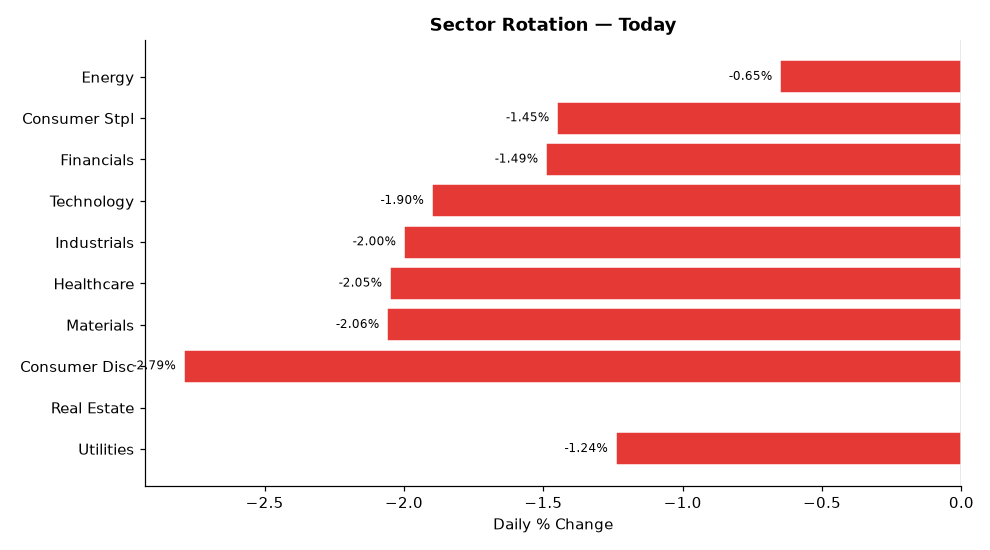
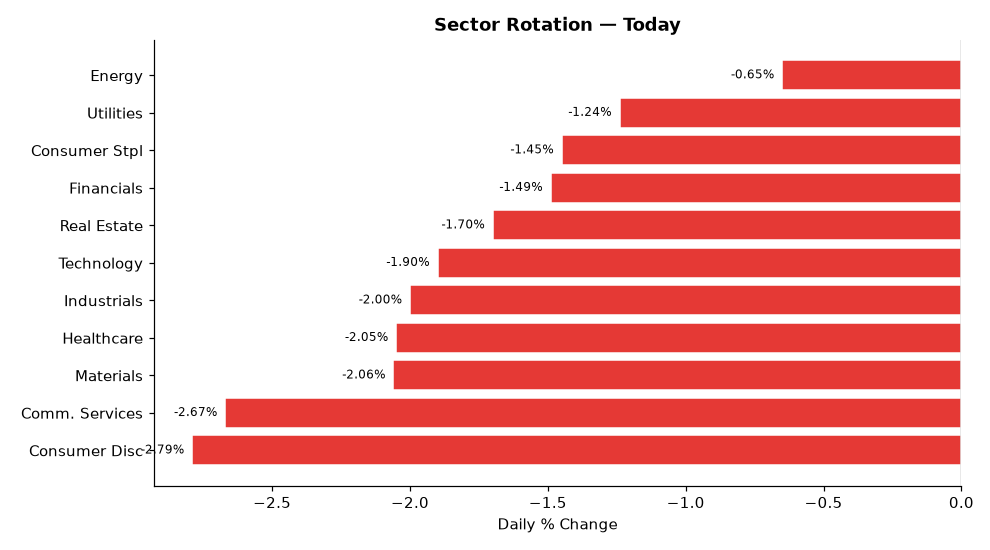
deploy: b7fadf5b06deb90e7ebb92f278722414bdd9750d

diff --git a/index.html b/index.html
@@ -4,7 +4,7 @@
   <meta charset="UTF-8">
   <meta name="viewport" content="width=device-width,initial-scale=1">
   <meta http-equiv="Cache-Control" content="no-cache,no-store,must-revalidate">
-  <title>Stock Breakout Screener — 2026-11-20 02:47</title>
+  <title>Stock Breakout Screener — 2026-11-20 06:36</title>
   <style>
     *{box-sizing:border-box;margin:0;padding:0}
     body{font-family:'Segoe UI',Arial,sans-serif;background:#f0f2f5;
@@ -34,7 +34,7 @@
 
 <div class="hdr">
   <h1>📈 Stock Breakout Screener</h1>
-  <p>Updated: 2026-11-20 02:47 UTC &nbsp;·&nbsp; Phase: Overnight &nbsp;·&nbsp;
+  <p>Updated: 2026-11-20 06:36 UTC &nbsp;·&nbsp; Phase: Pre-Market (before 9:30 AM ET) &nbsp;·&nbsp;
      129 stocks screened &nbsp;·&nbsp; Top 5 by conviction score</p>
 </div>
 
@@ -60,24 +60,7 @@
           <div style="display:flex;align-items:center;gap:10px;
                       flex-wrap:wrap;margin-bottom:10px">
             <span style="font-size:22px">🟡</span>
-            <span style="font-size:19px;font-weight:700">1. KO</span>
-            <span style="font-size:12px;color:#666">Consumer Stpl</span>
-            <span style="margin-left:auto;background:#1a237e;color:#fff;
-                         padding:3px 12px;border-radius:12px;
-                         font-size:13px;font-weight:600">
-              10/17
-            </span>
-          </div>
-          <ul style="margin:0;padding-left:18px;font-size:13px;
-                     color:#333;line-height:1.8"><li style="margin:5px 0"><span style="background:#fffde7;color:#f57f17;padding:2px 7px;border-radius:4px;font-size:11px;">⚠</span> Volume: <b>1.3× average</b> — Above-average activity</li><li style="margin:5px 0"><span style="background:#ffebee;color:#b71c1c;padding:2px 7px;border-radius:4px;font-size:11px;">❌</span> Candle: close <b>$96.09</b> vs open <b>$96.21</b> (-0.1%) — regular market close</li><li style="margin:5px 0"><span style="background:#e8f5e9;color:#2e7d32;padding:2px 7px;border-radius:4px;font-size:11px;">✅</span> 200-Day MA: price <b>$96.09</b> vs MA <b>$86.79</b> — <b>✅ Above</b> long-term trend</li><li style="margin:5px 0"><span style="background:#e8f5e9;color:#2e7d32;padding:2px 7px;border-radius:4px;font-size:11px;">✅</span> Inst. ownership: <b>68.3%</b> · MFI: <b>66.0</b> · Market cap: <b>$413.4B</b></li></ul>
-        </div>
-        <div style="background:#fff;border:1px solid #ddd;border-radius:10px;
-                    padding:16px 20px;margin-bottom:12px;
-                    box-shadow:0 2px 6px rgba(0,0,0,.07)">
-          <div style="display:flex;align-items:center;gap:10px;
-                      flex-wrap:wrap;margin-bottom:10px">
-            <span style="font-size:22px">🟡</span>
-            <span style="font-size:19px;font-weight:700">2. EL</span>
+            <span style="font-size:19px;font-weight:700">1. EL</span>
             <span style="font-size:12px;color:#666">Consumer Stpl</span>
             <span style="margin-left:auto;background:#1a237e;color:#fff;
                          padding:3px 12px;border-radius:12px;
@@ -94,7 +77,7 @@
           <div style="display:flex;align-items:center;gap:10px;
                       flex-wrap:wrap;margin-bottom:10px">
             <span style="font-size:22px">🟡</span>
-            <span style="font-size:19px;font-weight:700">3. PG</span>
+            <span style="font-size:19px;font-weight:700">2. KO</span>
             <span style="font-size:12px;color:#666">Consumer Stpl</span>
             <span style="margin-left:auto;background:#1a237e;color:#fff;
                          padding:3px 12px;border-radius:12px;
@@ -103,7 +86,7 @@
             </span>
           </div>
           <ul style="margin:0;padding-left:18px;font-size:13px;
-                     color:#333;line-height:1.8"><li style="margin:5px 0"><span style="background:#ffebee;color:#b71c1c;padding:2px 7px;border-radius:4px;font-size:11px;">❌</span> Volume: <b>1.0× average</b> — Above-average activity</li><li style="margin:5px 0"><span style="background:#ffebee;color:#b71c1c;padding:2px 7px;border-radius:4px;font-size:11px;">❌</span> Candle: close <b>$167.85</b> vs open <b>$167.91</b> (-0.0%) — regular market close</li><li style="margin:5px 0"><span style="background:#e8f5e9;color:#2e7d32;padding:2px 7px;border-radius:4px;font-size:11px;">✅</span> 200-Day MA: price <b>$167.85</b> vs MA <b>$149.18</b> — <b>✅ Above</b> long-term trend</li><li style="margin:5px 0"><span style="background:#e8f5e9;color:#2e7d32;padding:2px 7px;border-radius:4px;font-size:11px;">✅</span> Inst. ownership: <b>72.2%</b> · MFI: <b>62.0</b> · Market cap: <b>$389.0B</b></li></ul>
+                     color:#333;line-height:1.8"><li style="margin:5px 0"><span style="background:#fffde7;color:#f57f17;padding:2px 7px;border-radius:4px;font-size:11px;">⚠</span> Volume: <b>1.3× average</b> — Above-average activity</li><li style="margin:5px 0"><span style="background:#ffebee;color:#b71c1c;padding:2px 7px;border-radius:4px;font-size:11px;">❌</span> Candle: close <b>$96.09</b> vs open <b>$96.21</b> (-0.1%) — regular market close</li><li style="margin:5px 0"><span style="background:#e8f5e9;color:#2e7d32;padding:2px 7px;border-radius:4px;font-size:11px;">✅</span> 200-Day MA: price <b>$96.09</b> vs MA <b>$86.79</b> — <b>✅ Above</b> long-term trend</li><li style="margin:5px 0"><span style="background:#e8f5e9;color:#2e7d32;padding:2px 7px;border-radius:4px;font-size:11px;">✅</span> Inst. ownership: <b>68.3%</b> · MFI: <b>66.0</b> · Market cap: <b>$413.4B</b></li></ul>
         </div>
         <div style="background:#fff;border:1px solid #ddd;border-radius:10px;
                     padding:16px 20px;margin-bottom:12px;
@@ -111,7 +94,7 @@
           <div style="display:flex;align-items:center;gap:10px;
                       flex-wrap:wrap;margin-bottom:10px">
             <span style="font-size:22px">🟡</span>
-            <span style="font-size:19px;font-weight:700">4. XOM</span>
+            <span style="font-size:19px;font-weight:700">3. XOM</span>
             <span style="font-size:12px;color:#666">Energy</span>
             <span style="margin-left:auto;background:#1a237e;color:#fff;
                          padding:3px 12px;border-radius:12px;
@@ -128,7 +111,7 @@
           <div style="display:flex;align-items:center;gap:10px;
                       flex-wrap:wrap;margin-bottom:10px">
             <span style="font-size:22px">🟡</span>
-            <span style="font-size:19px;font-weight:700">5. CVX</span>
+            <span style="font-size:19px;font-weight:700">4. CVX</span>
             <span style="font-size:12px;color:#666">Energy</span>
             <span style="margin-left:auto;background:#1a237e;color:#fff;
                          padding:3px 12px;border-radius:12px;
@@ -138,6 +121,23 @@
           </div>
           <ul style="margin:0;padding-left:18px;font-size:13px;
                      color:#333;line-height:1.8"><li style="margin:5px 0"><span style="background:#ffebee;color:#b71c1c;padding:2px 7px;border-radius:4px;font-size:11px;">❌</span> Volume: <b>1.0× average</b> — Above-average activity</li><li style="margin:5px 0"><span style="background:#ffebee;color:#b71c1c;padding:2px 7px;border-radius:4px;font-size:11px;">❌</span> Candle: close <b>$206.50</b> vs open <b>$207.48</b> (-0.5%) — regular market close</li><li style="margin:5px 0"><span style="background:#e8f5e9;color:#2e7d32;padding:2px 7px;border-radius:4px;font-size:11px;">✅</span> 200-Day MA: price <b>$206.50</b> vs MA <b>$197.29</b> — <b>✅ Above</b> long-term trend</li><li style="margin:5px 0"><span style="background:#e8f5e9;color:#2e7d32;padding:2px 7px;border-radius:4px;font-size:11px;">✅</span> Inst. ownership: <b>72.3%</b> · MFI: <b>18.8</b> · Market cap: <b>$402.9B</b></li></ul>
+        </div>
+        <div style="background:#fff;border:1px solid #ddd;border-radius:10px;
+                    padding:16px 20px;margin-bottom:12px;
+                    box-shadow:0 2px 6px rgba(0,0,0,.07)">
+          <div style="display:flex;align-items:center;gap:10px;
+                      flex-wrap:wrap;margin-bottom:10px">
+            <span style="font-size:22px">🟡</span>
+            <span style="font-size:19px;font-weight:700">5. PG</span>
+            <span style="font-size:12px;color:#666">Consumer Stpl</span>
+            <span style="margin-left:auto;background:#1a237e;color:#fff;
+                         padding:3px 12px;border-radius:12px;
+                         font-size:13px;font-weight:600">
+              8/17
+            </span>
+          </div>
+          <ul style="margin:0;padding-left:18px;font-size:13px;
+                     color:#333;line-height:1.8"><li style="margin:5px 0"><span style="background:#ffebee;color:#b71c1c;padding:2px 7px;border-radius:4px;font-size:11px;">❌</span> Volume: <b>1.0× average</b> — Above-average activity</li><li style="margin:5px 0"><span style="background:#ffebee;color:#b71c1c;padding:2px 7px;border-radius:4px;font-size:11px;">❌</span> Candle: close <b>$167.85</b> vs open <b>$167.91</b> (-0.0%) — regular market close</li><li style="margin:5px 0"><span style="background:#e8f5e9;color:#2e7d32;padding:2px 7px;border-radius:4px;font-size:11px;">✅</span> 200-Day MA: price <b>$167.85</b> vs MA <b>$149.18</b> — <b>✅ Above</b> long-term trend</li><li style="margin:5px 0"><span style="background:#e8f5e9;color:#2e7d32;padding:2px 7px;border-radius:4px;font-size:11px;">✅</span> Inst. ownership: <b>72.2%</b> · MFI: <b>62.0</b> · Market cap: <b>$389.0B</b></li></ul>
         </div>
 
 
@@ -168,24 +168,6 @@
   
         <tr>
           <td style="font-weight:700;text-align:left;padding-left:10px">
-            🟡 KO</td>
-          <td style="background:#fff9c4">1.3×</td>
-          <td style="background:#ffcdd2">-0.1%</td>
-          <td style="background:#c8e6c9">
-            ▲ Above</td>
-          <td style="background:#c8e6c9">
-            68.3%</td>
-          <td style="background:#c8e6c9">
-            66.0</td>
-          <td style="background:#fff9c4">Consumer Stpl</td>
-          <td style="background:#c8e6c9">
-            195.4%</td>
-          <td style="background:#ffcdd2">
-            N/A</td>
-          <td style="font-weight:800;font-size:15px">10/17</td>
-        </tr>
-        <tr>
-          <td style="font-weight:700;text-align:left;padding-left:10px">
             🟡 EL</td>
           <td style="background:#fff9c4">1.5×</td>
           <td style="background:#fff9c4">-1.5%</td>
@@ -197,25 +179,25 @@
             25.7</td>
           <td style="background:#fff9c4">Consumer Stpl</td>
           <td style="background:#c8e6c9">
-            171.4%</td>
+            28.6%</td>
           <td style="background:#fff9c4">
             +3.6%</td>
           <td style="font-weight:800;font-size:15px">10/17</td>
         </tr>
         <tr>
           <td style="font-weight:700;text-align:left;padding-left:10px">
-            🟡 PG</td>
-          <td style="background:#ffcdd2">1.0×</td>
-          <td style="background:#ffcdd2">-0.0%</td>
+            🟡 KO</td>
+          <td style="background:#fff9c4">1.3×</td>
+          <td style="background:#ffcdd2">-0.1%</td>
           <td style="background:#c8e6c9">
             ▲ Above</td>
           <td style="background:#c8e6c9">
-            72.2%</td>
+            68.3%</td>
           <td style="background:#c8e6c9">
-            62.0</td>
+            66.0</td>
           <td style="background:#fff9c4">Consumer Stpl</td>
-          <td style="background:#c8e6c9">
-            278.4%</td>
+          <td style="background:#ffcdd2">
+            10.7%</td>
           <td style="background:#ffcdd2">
             N/A</td>
           <td style="font-weight:800;font-size:15px">9/17</td>
@@ -233,7 +215,7 @@
             17.6</td>
           <td style="background:#c8e6c9">Energy</td>
           <td style="background:#c8e6c9">
-            229.8%</td>
+            25.7%</td>
           <td style="background:#ffcdd2">
             N/A</td>
           <td style="font-weight:800;font-size:15px">9/17</td>
@@ -251,10 +233,28 @@
             18.8</td>
           <td style="background:#c8e6c9">Energy</td>
           <td style="background:#c8e6c9">
-            196.2%</td>
+            39.7%</td>
           <td style="background:#ffcdd2">
             N/A</td>
           <td style="font-weight:800;font-size:15px">9/17</td>
+        </tr>
+        <tr>
+          <td style="font-weight:700;text-align:left;padding-left:10px">
+            🟡 PG</td>
+          <td style="background:#ffcdd2">1.0×</td>
+          <td style="background:#ffcdd2">-0.0%</td>
+          <td style="background:#c8e6c9">
+            ▲ Above</td>
+          <td style="background:#c8e6c9">
+            72.2%</td>
+          <td style="background:#c8e6c9">
+            62.0</td>
+          <td style="background:#fff9c4">Consumer Stpl</td>
+          <td style="background:#ffcdd2">
+            13.1%</td>
+          <td style="background:#ffcdd2">
+            N/A</td>
+          <td style="font-weight:800;font-size:15px">8/17</td>
         </tr>
 </table>
 </div>
@@ -282,53 +282,53 @@
         </tr>
         <tr>
           <td style="text-align:left;padding-left:10px;font-weight:600">
-            #2 Consumer Stpl</td>
-          <td style="background:#ffebee;color:#c62828;font-weight:700">-1.45%</td>
-        </tr>
-        <tr>
-          <td style="text-align:left;padding-left:10px;font-weight:600">
-            #3 Financials</td>
-          <td style="background:#ffebee;color:#c62828;font-weight:700">-1.49%</td>
-        </tr>
-        <tr>
-          <td style="text-align:left;padding-left:10px;font-weight:600">
-            #4 Technology</td>
-          <td style="background:#ffebee;color:#c62828;font-weight:700">-1.90%</td>
-        </tr>
-        <tr>
-          <td style="text-align:left;padding-left:10px;font-weight:600">
-            #5 Industrials</td>
-          <td style="background:#ffebee;color:#c62828;font-weight:700">-2.00%</td>
-        </tr>
-        <tr>
-          <td style="text-align:left;padding-left:10px;font-weight:600">
-            #6 Healthcare</td>
-          <td style="background:#ffebee;color:#c62828;font-weight:700">-2.05%</td>
-        </tr>
-        <tr>
-          <td style="text-align:left;padding-left:10px;font-weight:600">
-            #7 Materials</td>
-          <td style="background:#ffebee;color:#c62828;font-weight:700">-2.06%</td>
-        </tr>
-        <tr>
-          <td style="text-align:left;padding-left:10px;font-weight:600">
-            #8 Consumer Disc</td>
-          <td style="background:#ffebee;color:#c62828;font-weight:700">-2.79%</td>
-        </tr>
-        <tr>
-          <td style="text-align:left;padding-left:10px;font-weight:600">
-            #9 Real Estate</td>
-          <td style="background:#ffebee;color:#c62828;font-weight:700">+nan%</td>
-        </tr>
-        <tr>
-          <td style="text-align:left;padding-left:10px;font-weight:600">
-            #10 Utilities</td>
+            #2 Utilities</td>
           <td style="background:#ffebee;color:#c62828;font-weight:700">-1.24%</td>
         </tr>
         <tr>
           <td style="text-align:left;padding-left:10px;font-weight:600">
-            #11 Comm. Services</td>
-          <td style="background:#ffebee;color:#c62828;font-weight:700">+nan%</td>
+            #3 Consumer Stpl</td>
+          <td style="background:#ffebee;color:#c62828;font-weight:700">-1.45%</td>
+        </tr>
+        <tr>
+          <td style="text-align:left;padding-left:10px;font-weight:600">
+            #4 Financials</td>
+          <td style="background:#ffebee;color:#c62828;font-weight:700">-1.49%</td>
+        </tr>
+        <tr>
+          <td style="text-align:left;padding-left:10px;font-weight:600">
+            #5 Real Estate</td>
+          <td style="background:#ffebee;color:#c62828;font-weight:700">-1.70%</td>
+        </tr>
+        <tr>
+          <td style="text-align:left;padding-left:10px;font-weight:600">
+            #6 Technology</td>
+          <td style="background:#ffebee;color:#c62828;font-weight:700">-1.90%</td>
+        </tr>
+        <tr>
+          <td style="text-align:left;padding-left:10px;font-weight:600">
+            #7 Industrials</td>
+          <td style="background:#ffebee;color:#c62828;font-weight:700">-2.00%</td>
+        </tr>
+        <tr>
+          <td style="text-align:left;padding-left:10px;font-weight:600">
+            #8 Healthcare</td>
+          <td style="background:#ffebee;color:#c62828;font-weight:700">-2.05%</td>
+        </tr>
+        <tr>
+          <td style="text-align:left;padding-left:10px;font-weight:600">
+            #9 Materials</td>
+          <td style="background:#ffebee;color:#c62828;font-weight:700">-2.06%</td>
+        </tr>
+        <tr>
+          <td style="text-align:left;padding-left:10px;font-weight:600">
+            #10 Comm. Services</td>
+          <td style="background:#ffebee;color:#c62828;font-weight:700">-2.67%</td>
+        </tr>
+        <tr>
+          <td style="text-align:left;padding-left:10px;font-weight:600">
+            #11 Consumer Disc</td>
+          <td style="background:#ffebee;color:#c62828;font-weight:700">-2.79%</td>
         </tr>
     </table>
   </div>
@@ -367,7 +367,7 @@
         <li><b>Scoring weights:</b>
             Inst.Own(3) · Sector(3) · Volume(2) · Breakout(2) ·
             MA200(2) · MFI(2) · History(2) · IV(1) = 17pts max</li>
-        <li><b>Run time:</b> 2026-11-20 02:47 UTC — Market phase: Overnight</li>
+        <li><b>Run time:</b> 2026-11-20 06:36 UTC — Market phase: Pre-Market (before 9:30 AM ET)</li>
       </ul>
     </div>
 
